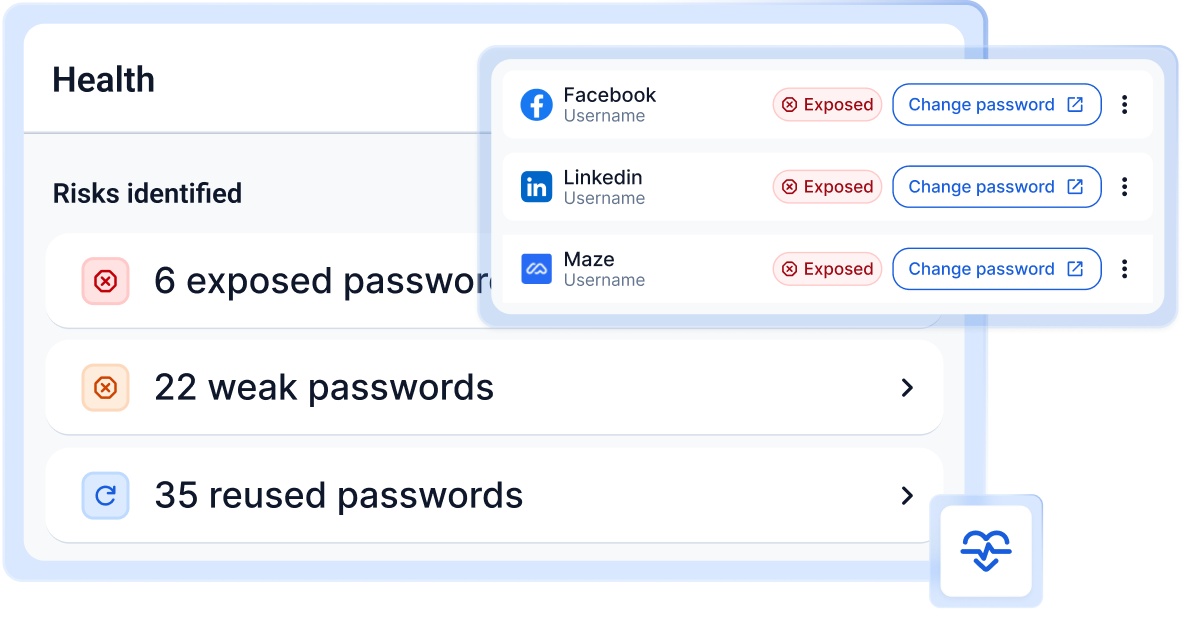
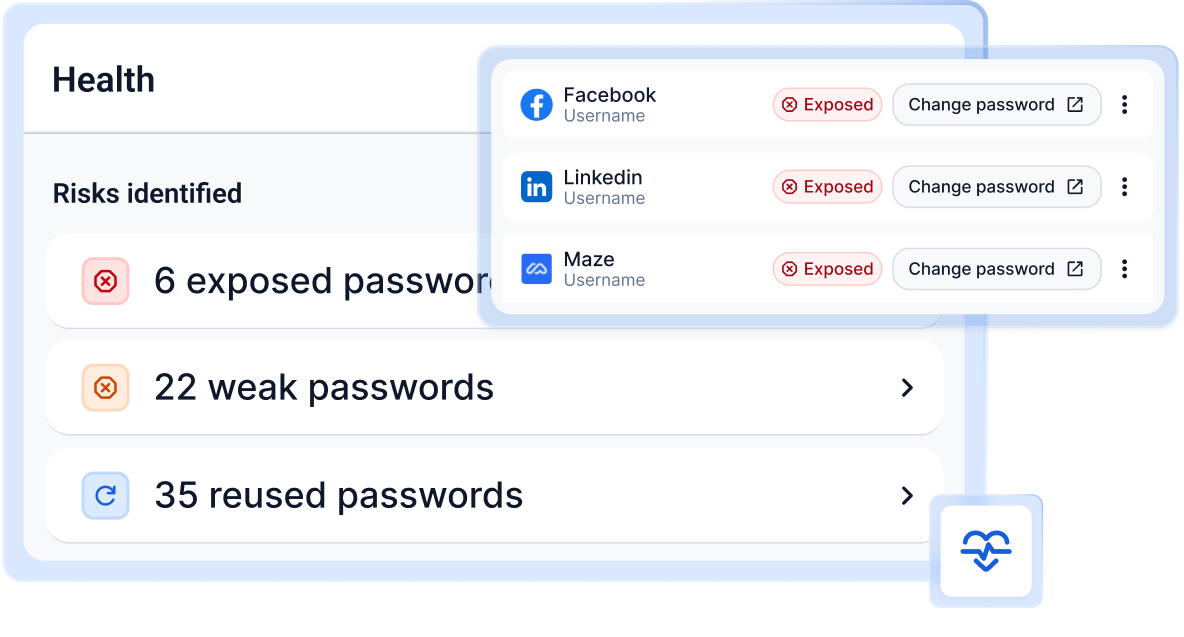
[PM-43269] Browser: Update Health category details button variant and intro CTA images (#23103)
- Update the "Change password" buttons on the category detail pages to use the secondary variant and small sizing

- Update the images on the Health intro CTA with new graphics that show same button variant

Changed region(s): [[0.75, 0.3878, 0.9375, 0.4772], [0.75, 0.2386, 0.9375, 0.3281], [0.75, 0.1193, 0.9375, 0.2088]]

diff --git a/bitwarden_license/bit-browser/src/popup/dirt/health/health-risk-category-detail.component.html b/bitwarden_license/bit-browser/src/popup/dirt/health/health-risk-category-detail.component.html
@@ -46,13 +46,15 @@
               </span>
             </div>
           </button>
-          <div slot="end" class="tw-flex tw-gap-2 tw-items-center">
+          <ng-container slot="end">
             @if (cipher.login.uri != null) {
               <bit-item-action>
                 <button
                   type="button"
                   bitButton
-                  buttonType="primaryOutline"
+                  buttonType="secondary"
+                  size="small"
+                  block
                   endIcon="bwi-external-link"
                   (click)="onChangePassword(cipher)"
                 >
@@ -64,6 +66,7 @@
               <button
                 type="button"
                 bitIconButton="bwi-more-horizontal"
+                size="small"
                 label="{{ 'options' | i18n }}"
                 [bitMenuTriggerFor]="itemMenu"
               ></button>
@@ -79,7 +82,7 @@
                 </button>
               </bit-menu>
             </bit-item-action>
-          </div>
+          </ng-container>
         </bit-item>
       </cdk-virtual-scroll-viewport>
     </bit-section>
